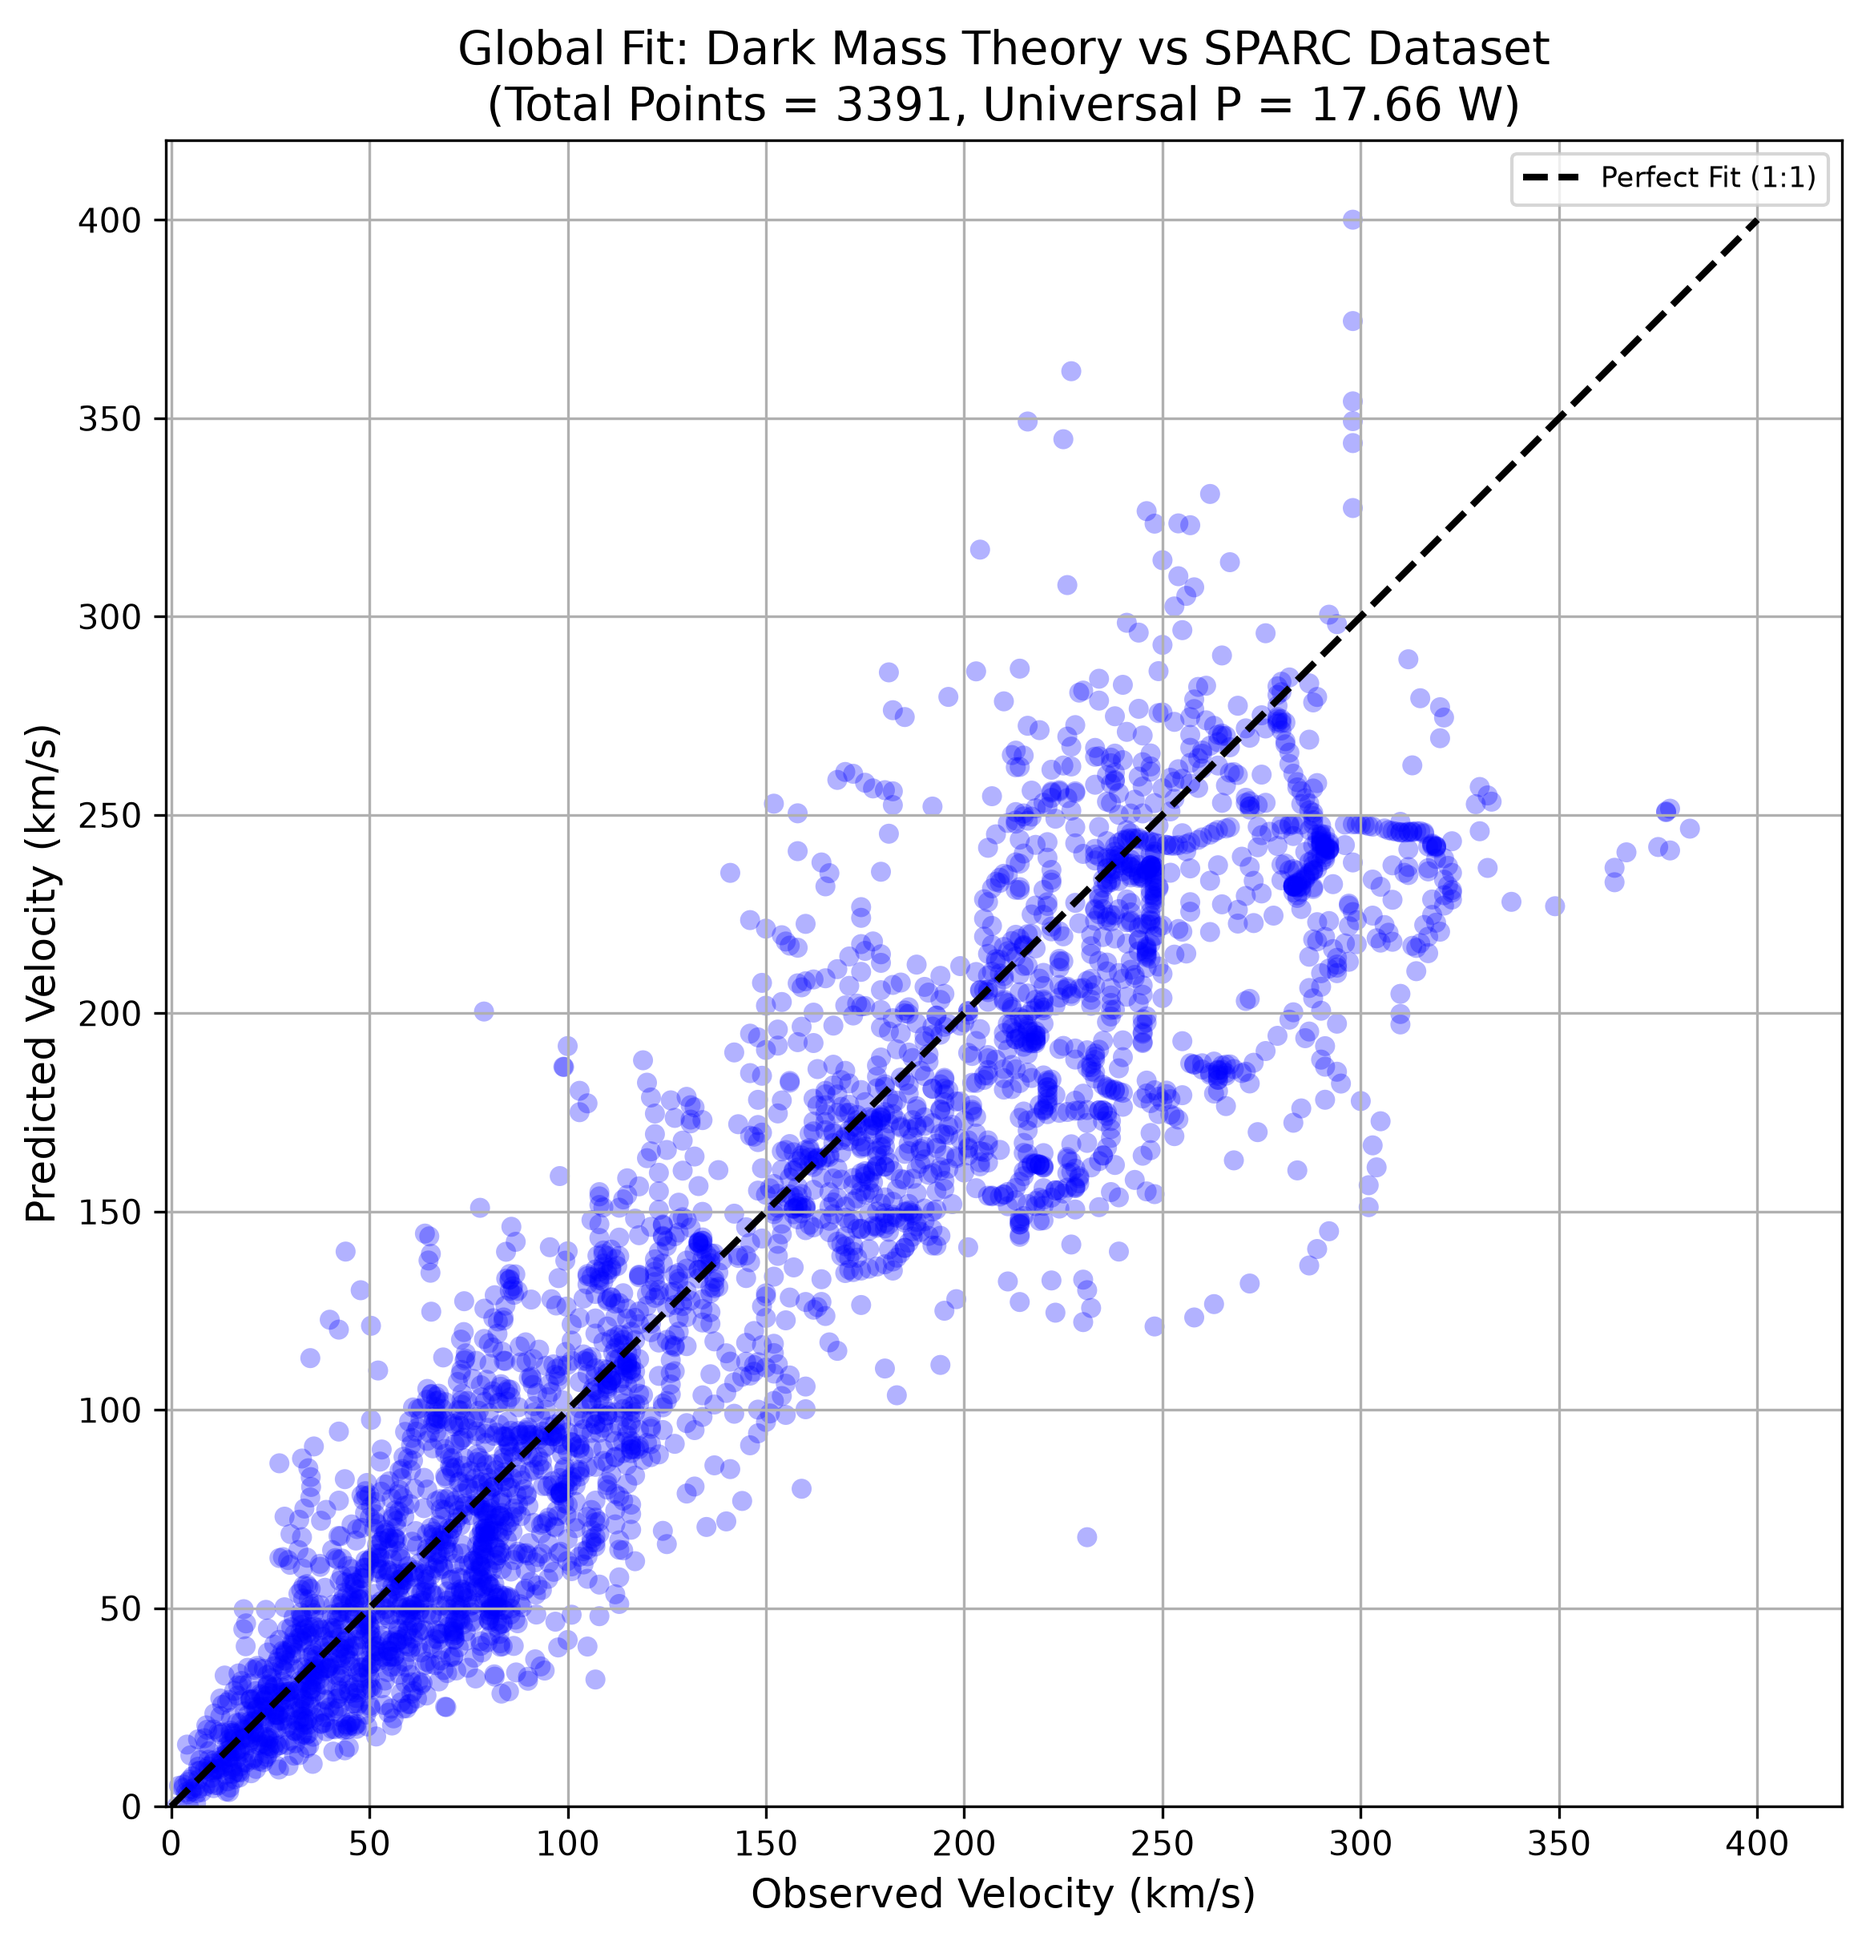
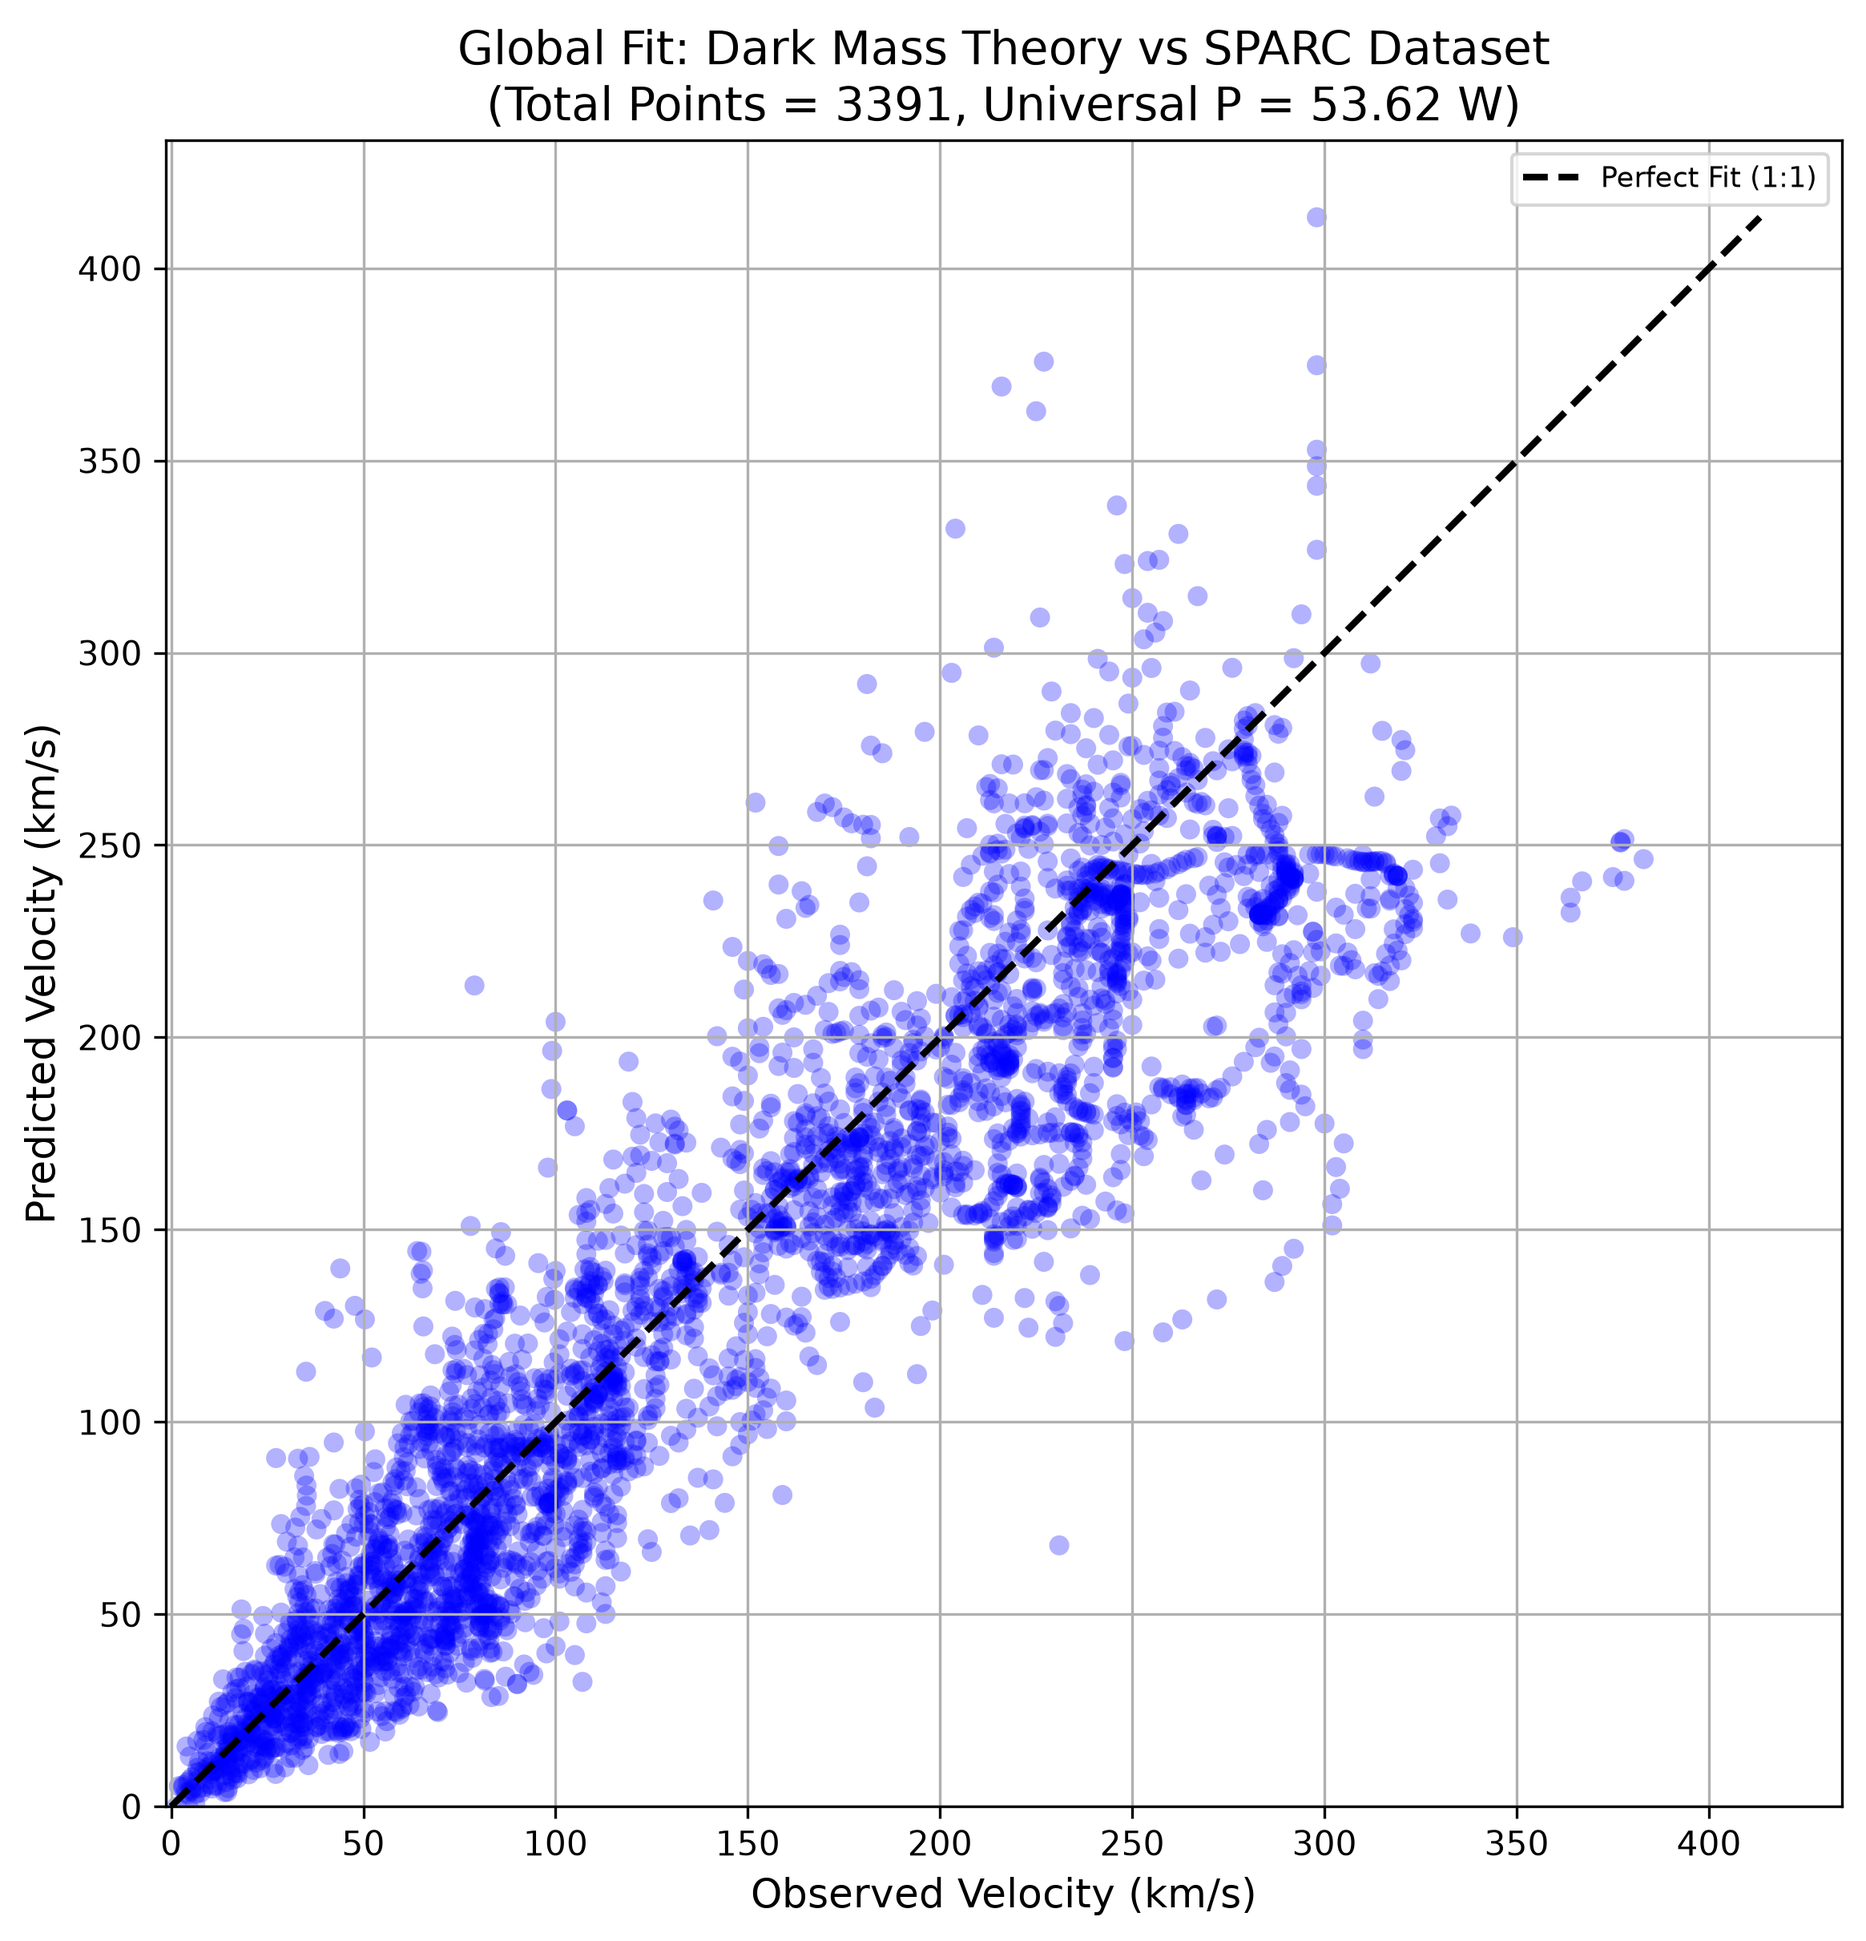
made the dm layout much better organized, which fixed some things

diff --git a/sparc/sparc_dm_brute.py b/sparc/sparc_dm_brute.py
@@ -13,12 +13,13 @@ Upsilon_bulge = 0.7
 sqrt_Upsilon_disk = np.sqrt(Upsilon_disk)
 sqrt_Upsilon_bulge = np.sqrt(Upsilon_bulge)
 
-MIN_DENSITY_FOR_DM = 0
-MIN_DENSITY_WITHIN_R_D = 0   
+# Put controls here for adding a halo of gas around the galaxy
+#MIN_DENSITY_FOR_DM = 0
+#MIN_DENSITY_WITHIN_R_D = 0   
  
-NUM_BLOBS_THETA = 159
-NUM_LAYERS_Z = 23
-NUM_R_BINS = 87  # Added for continuous 3D volume integration
+NUM_BLOBS_THETA = 153
+NUM_LAYERS_Z = 19
+NUM_R_BINS = 137  # Added for continuous 3D volume integration
 USE_EXPONENTIAL_DISK = True
 
 
@@ -126,62 +127,56 @@ for i, gal in enumerate(galaxies):
     hz_kpc = get_sparc_galaxy_scale_height(None, R_d)
     hz_m = hz_kpc * kpc_to_m
     
-    valid_obs = R_m_obs > 0
-    Sigma_gas_m2_grid = Sigma_gas_cm2_grid * 100.0 * 100.0
-    n_R_gas_grid = Sigma_gas_m2_grid / (2 * hz_m) 
-    n_R_gas_grid = n_R_gas_grid * 1.0833 
+    valid_obs = R_m_obs > 0 # indexes of valid observed radii
+    Sigma_gas_m2_grid = Sigma_gas_cm2_grid * 100.0 * 100.0 # work in SI units. This is observed surface gas density in particles/m^2
     
-    min_n_global = MIN_DENSITY_FOR_DM * 1e6
-    min_n_inner = MIN_DENSITY_WITHIN_R_D * 1e6
-    
-    valid_dm_density = np.ones_like(n_R_gas_grid, dtype=bool)
-    
-    if MIN_DENSITY_FOR_DM > 0:
-        valid_dm_density &= (n_R_gas_grid >= min_n_global)
-        
-    if MIN_DENSITY_WITHIN_R_D > 0:
-        inner_mask = R_grid_kpc <= R_d
-        valid_dm_density[inner_mask] &= (n_R_gas_grid[inner_mask] >= min_n_inner)
-
-    rho_dm_base_grid = np.zeros_like(n_R_gas_grid)
-    rho_dm_base_grid[valid_dm_density] = (1.0 / c**3) * (n_R_gas_grid[valid_dm_density] ** (2/3))
+    # n_R_gas_grid = Sigma_gas_m2_grid / (2 * hz_m) 
+    # n_R_gas_grid = n_R_gas_grid * 1.0833 # account for other species like He, as the Sigma numbers are HI gas only 
+    # valid_dm_density = np.ones_like(n_R_gas_grid, dtype=bool)
+    # rho_dm_base_grid = np.zeros_like(n_R_gas_grid)
+    # rho_dm_base_grid[valid_dm_density] = (1.0 / c**3) * (n_R_gas_grid[valid_dm_density] ** (2/3))
     
     # ---------------------------------------------------------
     # BRUTE FORCE 3D BLOB CALCULATION (Continuous Grid)
     # ---------------------------------------------------------
+    
+    # create the 3D array
     nz = NUM_LAYERS_Z
     ntheta = NUM_BLOBS_THETA
     
-    Z_m = np.linspace(-2.0 * hz_m, 2.0 * hz_m, nz)
-    dZ = Z_m[1] - Z_m[0] if nz > 1 else 2.0 * hz_m
+    Z_m = np.linspace(-2.0 * hz_m, 2.0 * hz_m, nz) # 3hz to 3hz maybe better?    OR MORE for a extragalacit gas halo??
+    dZ = Z_m[1] - Z_m[0] if nz > 1 else 2.0 * hz_m 
     
     theta_rad = np.linspace(0, 2 * np.pi, ntheta, endpoint=False)
     dTheta = 2 * np.pi / ntheta
-    
+
     R_grid_3d, Z_grid_3d, Theta_grid_3d = np.meshgrid(R_grid_m, Z_m, theta_rad, indexing='ij')
     
-    dV = R_grid_3d * dTheta * dR_m * dZ
+    dV = R_grid_3d * dTheta * dR_m * dZ # Volume element of a blob in the grid
     
-    # Corrected Helium Factor
-    gas_particle_count_He_factor = 1.33 
-    Sigma_gas_kg_m2_for_Vgas = Sigma_gas_m2_grid * m_p * gas_particle_count_He_factor 
-    
-    gas_density_1d = np.where(R_grid_m > 0, Sigma_gas_kg_m2_for_Vgas / (2.0 * hz_m), 0.0)
-    dm_density_1d = rho_dm_base_grid 
-    
-    gas_density_grid = gas_density_1d[:, None, None] * np.ones_like(Z_grid_3d)
-    dm_density_grid = dm_density_1d[:, None, None] * np.ones_like(Z_grid_3d)
 
+    # layout gas particles per volume blob 
+    gas_particle_density_1d = np.where(R_grid_m > 0, Sigma_gas_m2_grid / (2.0 * hz_m), 0.0)
+    gas_particle_density_grid = gas_particle_density_1d[:, None, None] * np.ones_like(Z_grid_3d)
+
+    # that put the same amount of gas into each blob, vertically. We now have twice as much gas as we need. 
+    # We do the disk profile to get that right. 
     if USE_EXPONENTIAL_DISK:
-        gas_density_grid *= 0.5*np.exp(-(2.0/3.0) * np.abs(Z_grid_3d) / hz_m)
-    else:
+        gas_particle_density_grid *= 0.5*np.exp(-np.abs(Z_grid_3d) / hz_m)
+        # The integral of 0.5*np.exp(-z / hz_m) dz from 0 to 2hz 
+        # is exactly 0.5 
+    else: 
         z_mask = np.abs(Z_grid_3d) <= hz_m
-        gas_density_grid[~z_mask] = 0.0
-        dm_density_grid[~z_mask] = 0.0
+        gas_particle_density_grid[~z_mask] = 0.0
 
-    dm_gas = gas_density_grid * dV
-    dm_dm = dm_density_grid * dV
-    
+    # ok, so now gas_particle_density_grid has HI densities in particles/m^3 for each blob
+    # we use this to create two 3D arrays, one for gas mass in each blob, and one for dm mass in each blob
+    gas_particle_count_He_factor = 1.33 
+    dm_gas = gas_particle_density_grid *m_p*gas_particle_count_He_factor * dV
+    dm_base_dm = (1/c**3)*gas_particle_density_grid**(2/3) * dV 
+    # CHECK: Does the sum of all the gas mass densities*dZ over all the z-values for a given R give the surface density in particles/m^2?
+    # If not, I need to fix it.  
+
     X_blob = R_grid_3d * np.cos(Theta_grid_3d)
     Y_blob = R_grid_3d * np.sin(Theta_grid_3d)
     Z_blob = Z_grid_3d
@@ -203,7 +198,7 @@ for i, gal in enumerate(galaxies):
         da_x_factor = G * dx / (dist_sq * dist)
         
         a_x_gas = np.sum(da_x_factor * dm_gas)
-        a_x_dm = np.sum(da_x_factor * dm_dm)
+        a_x_dm = np.sum(da_x_factor * dm_base_dm)
         
         V_gas_sq_grid[i_idx] = -a_x_gas * R_test
         V_dm_sq_base_grid[i_idx] = max(0, -a_x_dm * R_test)

diff --git a/sparc/calc_gas_checkit.py b/sparc/calc_gas_checkit.py
@@ -165,12 +165,9 @@ def main(input_file, output_file):
     with open(output_file, 'w') as f:
         for idx, line in enumerate(lines):
             clean_line = line.rstrip('\n')
-            
-            if clean_line.startswith("   69- 76 F8.2   solLum/pc2   SBbul"):
+            if "Bulge surface brightness" in clean_line:
                 f.write(clean_line + "\n")
-                f.write("   78- 87 E10.3  part/cm2 Sigma_gas Calculated HI particle density \n")
-            elif clean_line.startswith("   61- 67 F7.2   solLum/pc2   SBdisk"):
-                f.write(clean_line + "      Sigma_gas\n")
+                f.write("  78- 87 E10.3  part/cm2 Sigma_gas Calculated HI particle density \n")
             elif idx in new_columns and new_columns[idx] != "":
                 f.write(f"{clean_line} {new_columns[idx]}\n")
             else:
